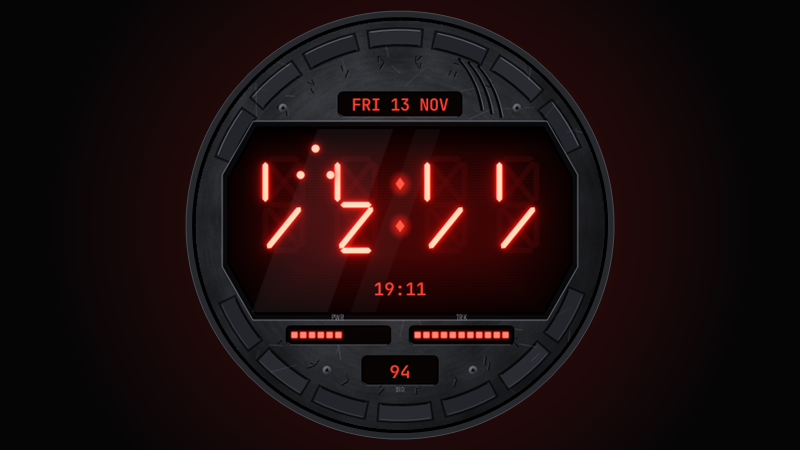
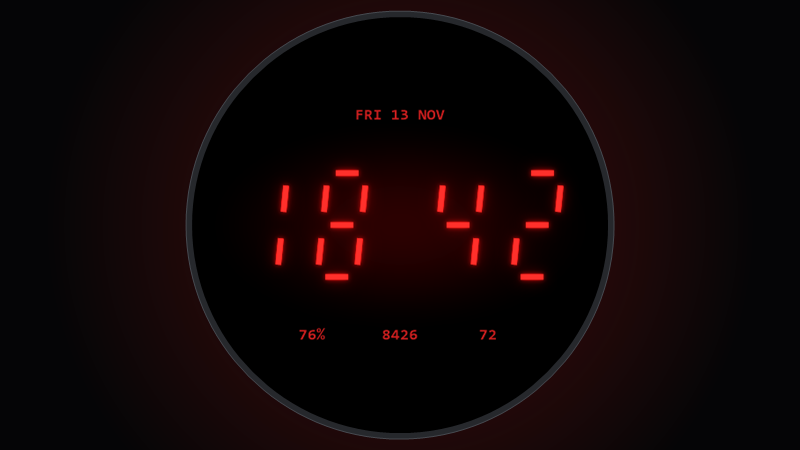
Predator watch face card: v2.0

Changed region(s): [[0.2188, 0.0311, 0.75, 0.9644]]

diff --git a/index.html b/index.html
@@ -503,10 +503,10 @@ archive/  profile.txt</span>
       </div></article>
 
       <article class="card"><div class="card-in">
-        <a class="shot" href="https://github.com/hackthecode/predator-watchface" tabindex="-1" aria-hidden="true"><img src="assets/shot-predator-watchface.png" width="800" height="450" alt="Predator watch face: red alien numerals on a display set into dark armour" loading="lazy"></a>
+        <a class="shot" href="https://github.com/hackthecode/predator-watchface" tabindex="-1" aria-hidden="true"><img src="assets/shot-predator-watchface.png" width="800" height="450" alt="Predator watch face: red dash-style digits on black" loading="lazy"></a>
         <div class="card-top"><span class="live"><span class="dot"></span>APK</span><span data-bg="циферблат">watch face</span></div>
         <h3>Predator</h3>
-        <p data-bg="Китков компютър на извънземен ловец за Wear OS: часът е изписан с измислена бройна система върху червен дисплей в очукана тъмна сплав. Докосване включва топлинно виждане, а мерник с три точки следи наклона на китката.">An alien hunter's wrist computer for Wear OS: the time is written in an invented numeral system on a red display set into scarred dark alloy. A tap switches to heat vision, and a three-dot ranging mark follows the tilt of the wrist.</p>
+        <p data-bg="Китков дисплей на ловец за Wear OS: яркочервени чертички върху чисто черно. Показва часа две секунди, после пет секунди превърта извънземни символи, и така докато екранът свети. Докосване включва топлинно виждане.">A hunter's wrist display for Wear OS: bright red dashes on pure black. It shows the time for two seconds, then runs through alien symbols for five, for as long as the screen is on. A tap switches to heat vision.</p>
         <ul class="chips"><li>Wear OS</li><li>Watch Face Format</li><li>C#</li></ul>
         <span class="gh" data-repo="predator-watchface" hidden></span>
         <div class="cta">
